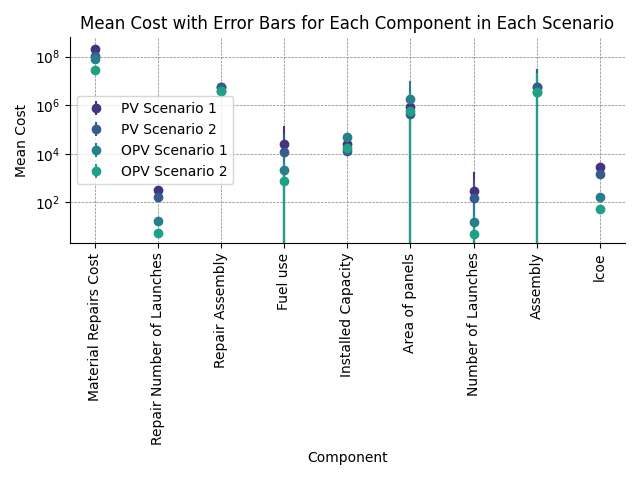
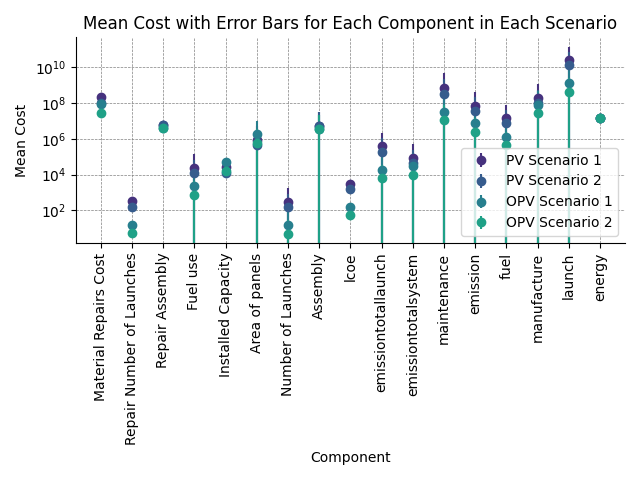
new figures and table is added

diff --git a/lcose.py b/lcose.py
@@ -688,7 +688,16 @@ def create_table(scenarios):
     data = []
     for scenario, calculator in scenarios.items():
         calculator.base_components['lcoe'] = calculator.lcoe
-        components = calculator.base_components.values()
+        calculator.base_components['emissiontotallaunch'] = calculator.emissiontotallaunch
+        calculator.base_components['emissiontotalsystem'] = calculator.emissiontotalsystem
+        calculator.base_components['maintenance'] = calculator.maintenance
+        calculator.base_components['emission'] = calculator.emission
+        calculator.base_components['fuel'] = calculator.fuel
+        calculator.base_components['manufacture'] = calculator.manufacture
+        calculator.base_components['launch'] = calculator.launch
+        calculator.base_components['energy'] = calculator.energy
+
+
         for component in calculator.base_components.values():
             data.append({
                 'Scenario': scenario,
@@ -732,7 +741,7 @@ def plot_error_bars(scenarios, exclude_components=[]):
     plt.tight_layout()
     # Save the plot
     plt.savefig(f'data/results/plot/error_bars_{scenario}.png')
-    plt.show()
+    plt.close()
 
 
 if __name__ == "__main__":
@@ -826,7 +835,7 @@ if __name__ == "__main__":
     plt.legend(frameon=False)
     # Show the plot
     plt.savefig('data/results/lcoe_per_scenario.png')
-    plt.show()
+    plt.close()
 
 # %% lcoe without emissions plot
     # Create a list to store the means and standard deviations for each scenario
@@ -861,40 +870,76 @@ if __name__ == "__main__":
     # Show the plot
     plt.savefig('data/results/lcoewithouthemissions_per_scenario.png')
 
+
+
 # %% costs plot
-    # Create a list to store the means and standard deviations for each scenario
-    means = []
-    stds = []
-    scenario_names = []
+    plt.close()
+    # Initialize empty lists to store the costs
+    maintenance_costs = []
+    emission_costs = []
+    fuel_costs = []
+    manufacture_costs = []
+    launch_costs = []
 
-    # Iterate over the scenarios
+    # Loop through the scenarios
     for name, information in values_of_scenarios.items():
-        maintenance = information.maintenance.get_cost().costs  
-        mean = np.mean(maintenance)  # Calculate the mean
-        std = np.std(maintenance)  # Calculate the standard deviation
-        means.append(mean)
-        stds.append(std)
-        scenario_names.append(name)
+        maintenance_costs.append(np.mean(information.maintenance.get_cost().costs))
+        emission_costs.append(np.mean(information.emission.get_cost().costs))
+        fuel_costs.append(np.mean(information.fuel.get_cost().costs))
+        manufacture_costs.append(np.mean(information.manufacture.get_cost().costs))
+        launch_costs.append(np.mean(information.launch.get_cost().costs))
 
-    # Create a list for the x-axis positions
-    x_pos = range(1, len(scenario_names) + 1)
-    # Create the plot
-    plt.figure(figsize=(10, 6))
-    # Plot the error bars with a different color from viridis color map for each scenario
-    plt.errorbar(x_pos, means, yerr=stds, fmt='o', capsize=5, label='Maintenance with error bars', color='yellow')
-    # Plot the means as horizontal lines
-    plt.hlines(means, xmin=[x - 0.2 for x in x_pos], xmax=[x + 0.2 for x in x_pos], label='Mean maintenance', color='blue')
-    sns.despine()
-    plt.grid(color='gray', linestyle='--', linewidth=0.5)
+    # Create a range for the x-axis
+    x = np.arange(len(values_of_scenarios))
+
+    # Plot the stacked histogram
+    plt.bar(x, maintenance_costs, label='Maintenance')
+    plt.bar(x, emission_costs, bottom=maintenance_costs, label='Emission')
+    plt.bar(x, fuel_costs, bottom=np.array(maintenance_costs)+np.array(emission_costs), label='Fuel')
+    plt.bar(x, manufacture_costs, bottom=np.array(maintenance_costs)+np.array(emission_costs)+np.array(fuel_costs), label='Manufacture')
+    plt.bar(x, launch_costs, bottom=np.array(maintenance_costs)+np.array(emission_costs)+np.array(fuel_costs)+np.array(manufacture_costs), label='Launch')
+
     # Add labels and title
-    plt.xlabel('Scenario')
-    plt.ylabel('Maintenance Cost (USD)')
-    plt.title('Maintenance Cost for Each Scenario with Error Bars and Mean')
-    # Set the x-axis ticks and labels
-    plt.xticks(x_pos, scenario_names)
-    # Add a legend
-    plt.legend()
-    # Show the plot
-    plt.savefig('data/results/maintenance_per_scenario.png')
-    plt.show()
+    sns.despine
 
+    plt.xlabel('Scenarios')
+    plt.ylabel('Costs')
+    plt.title('Mean costs for each scenario')
+    plt.xticks(x, values_of_scenarios.keys())
+    plt.legend()
+    plt.grid(color='gray', linestyle='--', linewidth=0.5)
+ # plt.yscale('log')
+
+    # Show the plot
+    plt.savefig('data/results/Mean Costs for each scenario.png')
+    plt.close()
+
+    # %%
+    # Initialize empty lists to store the emissions
+    emission_system = []
+    emission_launch = []
+
+    # Loop through the scenarios
+    for name, information in values_of_scenarios.items():
+        emission_system.append(np.mean(information.emissiontotalsystem.get_cost().costs))
+        emission_launch.append(np.mean(information.emissiontotallaunch.get_cost().costs))
+
+    # Create a range for the x-axis
+    x = np.arange(len(values_of_scenarios))
+
+    # Plot the stacked histogram
+    plt.bar(x, emission_system, label='Emission System')
+    plt.bar(x, emission_launch, bottom=np.array(emission_system), label='Emission Launch')
+
+    # Add labels and title
+    sns.despine
+
+    plt.xlabel('Scenarios')
+    plt.ylabel('Emissions')
+    plt.title('Mean emissions for each scenario')
+    plt.xticks(x, values_of_scenarios.keys())
+    plt.legend()
+    plt.grid(color='gray', linestyle='--', linewidth=0.5)
+
+    # Show the plot
+    plt.savefig('data/results/emissions.png')
